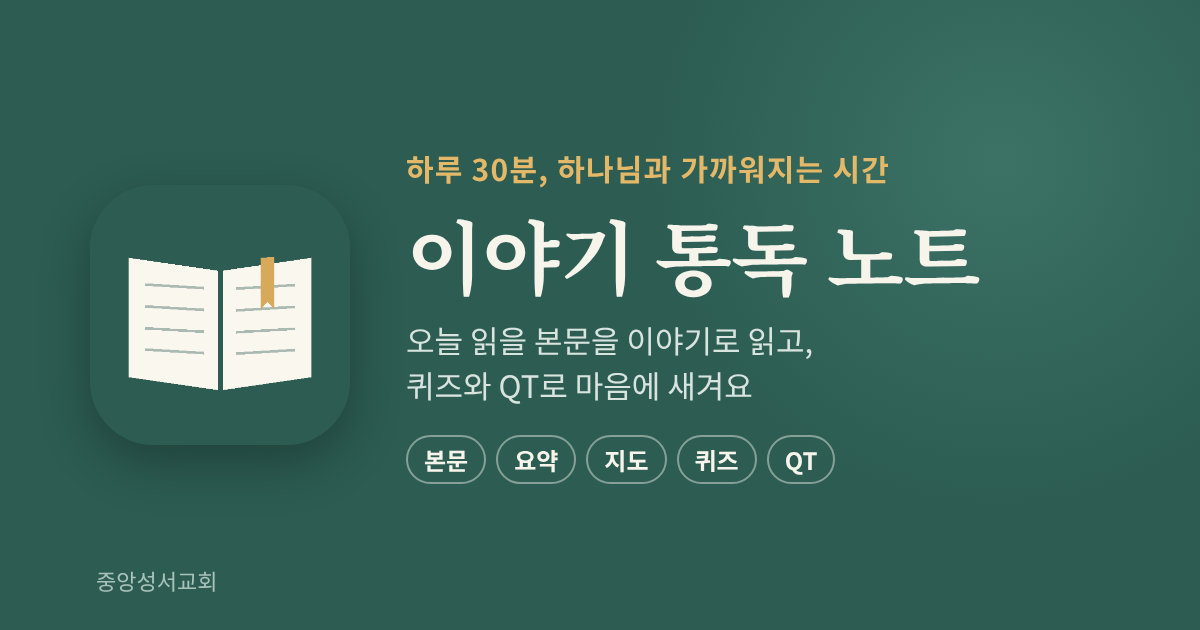
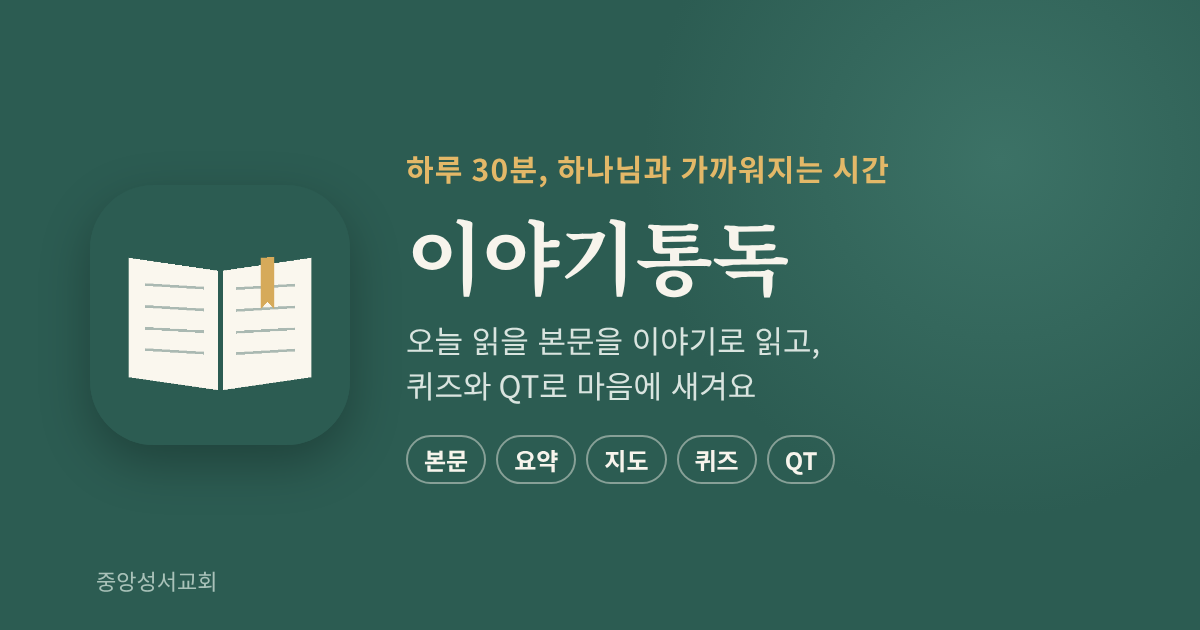
앱 이름을 '이야기통독'으로: 홈 화면 이름·탭 제목·링크 미리보기·켤 때 화면·메뉴 문구
Claude-Session: https://claude.ai/code/session_01JDTz8YqNAERJZBJ94GhQMU

Changed region(s): [[0.5242, 0.3317, 0.8325, 0.4825], [0.4008, 0.5127, 0.6783, 0.6333]]

diff --git a/app/template3.html b/app/template3.html
@@ -1,4 +1,4 @@
-<title>이야기 통독 노트</title>
+<title>이야기통독</title>
 <link rel="preconnect" href="https://fonts.googleapis.com">
 <link rel="preconnect" href="https://fonts.gstatic.com" crossorigin>
 <link rel="stylesheet" href="https://fonts.googleapis.com/css2?family=Gowun+Batang:wght@400;700&family=IBM+Plex+Sans+KR:wght@400;500;600;700&display=swap">
@@ -2230,7 +2230,7 @@ html.v2 body .rdt{display:block;font:600 14px var(--f-ui);color:var(--muted);mar
 
 <div class="wrap">
   <header class="top">
-    <div class="brand"><span id="brandL">이야기 통독 노트(시험판) · <span id="planName"></span></span><span class="topbtns"><span id="hdx"></span><button class="tourbtn" id="tourBtn" hidden>둘러보기</button><button class="menubtn" id="menuBtn" aria-label="메뉴 열기"><svg viewBox="0 0 24 24" width="22" height="22" fill="none" stroke="currentColor" stroke-width="2.2" stroke-linecap="round"><path d="M4 6h16M4 12h16M4 18h16"/></svg></button></span></div>
+    <div class="brand"><span id="brandL">이야기통독(시험판) · <span id="planName"></span></span><span class="topbtns"><span id="hdx"></span><button class="tourbtn" id="tourBtn" hidden>둘러보기</button><button class="menubtn" id="menuBtn" aria-label="메뉴 열기"><svg viewBox="0 0 24 24" width="22" height="22" fill="none" stroke="currentColor" stroke-width="2.2" stroke-linecap="round"><path d="M4 6h16M4 12h16M4 18h16"/></svg></button></span></div>
     <div id="newsBar"></div>
     <div class="date" id="dateLine"></div>
     <div class="where" id="whereLine"></div>
@@ -3847,7 +3847,7 @@ function godMark(t){
 /* 2026-10-29 첫 화면을 v2로 바꿈: v1을 쓰던 기기에서 처음 열면 한 번 알림 */
 function switchNotice(){ try{ if(!window.CBSR_V2||!window.CBSR_HADV1||window.CBSR_TRY||localStorage.getItem("cbsr-switch-seen")) return; if(/[?&](day|review)=/.test(location.search)) return; localStorage.setItem("cbsr-switch-seen",todayStr()); }catch(e){ return; }
   const lin=window.SYNC&&SYNC.available&&SYNC.loggedIn&&SYNC.loggedIn();
-  sheet("새 화면으로 바뀌었습니다",`<p>이야기 통독 노트가 새 화면으로 바뀌었습니다. 읽는 본문과 순서는 그대로입니다.</p><ul class="swl"><li><b>오늘</b>: 그날 이야기를 사진 카드로 따라가는 <b>스토리 QT</b>로 시작합니다.</li><li>맨 위 <b>동그라미</b>를 눌러 날짜를 옮깁니다. 맨 왼쪽 <b>나의 통독</b>에는 오늘 붙잡은 말씀이 모입니다.</li><li>아래 단추는 차례로 <b>오늘 · 본문 · 묵상 노트 · 도전 · 기록</b>입니다.</li></ul><p class="swrec"><b>기록 안내</b><br>${lin?"이름과 4자리 번호로 로그인하셨기 때문에 기록이 그대로 이어집니다.":"이름과 4자리 번호로 로그인해 쓰신 분은 기록이 그대로 이어집니다. 로그인 없이 쓰신 기록은 새 화면으로 옮겨지지 않았을 수 있습니다. 앞으로는 메뉴에서 로그인해 두시면 기기를 바꿔도 기록이 이어집니다."}</p><p class="lead">예전 화면은 메뉴 맨 아래 '이전 화면'에서 볼 수 있습니다.</p><button class="btn" id="swTour" style="width:100%;margin-top:6px">1분 둘러보기</button>`);
+  sheet("새 화면으로 바뀌었습니다",`<p>이야기통독가 새 화면으로 바뀌었습니다. 읽는 본문과 순서는 그대로입니다.</p><ul class="swl"><li><b>오늘</b>: 그날 이야기를 사진 카드로 따라가는 <b>스토리 QT</b>로 시작합니다.</li><li>맨 위 <b>동그라미</b>를 눌러 날짜를 옮깁니다. 맨 왼쪽 <b>나의 통독</b>에는 오늘 붙잡은 말씀이 모입니다.</li><li>아래 단추는 차례로 <b>오늘 · 본문 · 묵상 노트 · 도전 · 기록</b>입니다.</li></ul><p class="swrec"><b>기록 안내</b><br>${lin?"이름과 4자리 번호로 로그인하셨기 때문에 기록이 그대로 이어집니다.":"이름과 4자리 번호로 로그인해 쓰신 분은 기록이 그대로 이어집니다. 로그인 없이 쓰신 기록은 새 화면으로 옮겨지지 않았을 수 있습니다. 앞으로는 메뉴에서 로그인해 두시면 기기를 바꿔도 기록이 이어집니다."}</p><p class="lead">예전 화면은 메뉴 맨 아래 '이전 화면'에서 볼 수 있습니다.</p><button class="btn" id="swTour" style="width:100%;margin-top:6px">1분 둘러보기</button>`);
   const t=document.getElementById("swTour"); if(t) t.onclick=()=>{ document.getElementById("sheetClose").click(); setTimeout(startTour,250); };
 }
 /* 처음 온 사람: 한 번만 둘러보기 권하기(나중에 하면 메뉴 › 도움말 › 둘러보기) */
@@ -7322,7 +7322,7 @@ function renderGuideV2(){ const rj=false, sd=parseD(mem.start);
       <a class="mban yt" href="${CHURCH_YT}" target="_blank" rel="noopener"><span class="mbi">▶</span><span><b>교회 유튜브</b><small>예배와 말씀 영상</small></span><i aria-hidden="true">↗</i></a>
       <a class="mban mwv" href="https://aqedah.github.io/MILALWV/" target="_blank" rel="noopener"><span class="mbi">א</span><span><b>MILALWV</b><small>히브리어 원문 연구</small></span><i aria-hidden="true">↗</i></a></div>
     <p class="mgh">기타</p><div class="mgrp">${window.SYNC&&SYNC.available?row("fb","의견 보내기",""):""}${window.SYNC&&SYNC.available?row("together","함께 읽기",PROF.share?"켜짐":"꺼짐"):""}${row("data","기록 관리","")}</div>
-    <p class="mfoot">이야기 통독 노트 · 시험판 · <a class="linkbtn" href="v1.html">이전 화면</a>${window.SYNC&&SYNC.available?` · <button class="linkbtn" id="adminGo">관리자</button>`:""}</p></div>`;
+    <p class="mfoot">이야기통독 · 시험판 · <a class="linkbtn" href="v1.html">이전 화면</a>${window.SYNC&&SYNC.available?` · <button class="linkbtn" id="adminGo">관리자</button>`:""}</p></div>`;
   const pages=
    pg("plan","통독표",`<div class="plans" role="radiogroup">${(!rj)?"":`<button class="plan" role="radio" aria-checked="${rj}" data-plan="rj"><i class="dot"></i><b>리딩지저스 45주</b><span class="lead">한 주에 엿새 읽고 주일에는 돌아봅니다.</span></button>`}<button class="plan" role="radio" aria-checked="${!rj}" data-plan="y365"><i class="dot"></i><b>${Y27?"2027 성경통독":"365 성경통독"}</b><span class="lead">${Y27?"하루도 쉬지 않고 날마다 읽어 1년에 성경을 한 번 읽습니다.":"날마다 읽어 1년에 성경을 한 번 읽습니다."}</span></button></div><p class="lead">통독표마다 기록이 따로 저장됩니다. 바꿔도 다른 통독표의 기록은 지워지지 않습니다.</p>`)+
    pg("tr","성경 번역",`<div class="plans" role="radiogroup">${Object.entries(TR_INFO).map(([k,v])=>`<button class="plan" role="radio" aria-checked="${TR===k}" data-tr="${k}"><i class="dot"></i><b>${esc(v.name)}</b></button>`).join("")}</div><p class="lead">본문 읽기가 이 번역으로 보입니다. 스토리 QT·묵상 노트·도전은 원고가 개역개정으로 쓰여 늘 개역개정입니다.</p>`)+

diff --git a/app/site_src/demo.html b/app/site_src/demo.html
@@ -1,6 +1,6 @@
 <!doctype html><html lang="ko"><head><meta charset="utf-8"><meta name="viewport" content="width=device-width,initial-scale=1,viewport-fit=cover">
-<title>스토리 QT 체험판</title><meta name="description" content="이야기 통독 노트 스토리 QT 체험판 · 중앙성서교회">
-<meta property="og:title" content="이야기 통독 노트 · 스토리 QT 체험판"><meta property="og:description" content="본문을 이야기 카드로 따라가고, 지도에서 인물과 함께 걷고, QT로 묵상합니다."><meta property="og:image" content="og.png">
+<title>스토리 QT 체험판</title><meta name="description" content="이야기통독 스토리 QT 체험판 · 중앙성서교회">
+<meta property="og:title" content="이야기통독 · 스토리 QT 체험판"><meta property="og:description" content="본문을 이야기 카드로 따라가고, 지도에서 인물과 함께 걷고, QT로 묵상합니다."><meta property="og:image" content="og.png">
 <link rel="icon" href="icons/icon-192.png">
 <link href="https://fonts.googleapis.com/css2?family=Noto+Sans+KR:wght@400;500;700&family=Noto+Serif+KR:wght@600;700;900&display=swap" rel="stylesheet">
 <!--FB-->

diff --git a/app/og/og.html b/app/og/og.html
@@ -13,7 +13,7 @@ h1{margin:0;font-family:"Noto Serif CJK KR";font-weight:700;font-size:80px;white
 .foot{position:absolute;left:96px;bottom:34px;font-size:22px;color:#A9C2B9}
 </style></head><body><div class="glow"></div>
 <div class="wrap"><img class="book" src="icon-512.png">
-<div class="t"><div class="kick">하루 30분, 하나님과 가까워지는 시간</div><h1>이야기 통독 노트</h1>
+<div class="t"><div class="kick">하루 30분, 하나님과 가까워지는 시간</div><h1>이야기통독</h1>
 <div class="sub">오늘 읽을 본문을 이야기로 읽고,<br>퀴즈와 QT로 마음에 새겨요</div>
 <div class="tags"><span>본문</span><span>요약</span><span>지도</span><span>퀴즈</span><span>QT</span></div></div></div>
 <div class="foot">중앙성서교회</div></body></html>

diff --git a/app/site_src/sync.js b/app/site_src/sync.js
@@ -1,4 +1,4 @@
-/* 이야기 통독 노트 — 독립 웹앱용 기록 동기화 (Firebase: 익명 로그인 + Firestore)
+/* 이야기통독 — 독립 웹앱용 기록 동기화 (Firebase: 익명 로그인 + Firestore)
    이름 + 숫자 4자리로 '열쇠'를 만들어, 같은 이름·번호를 넣은 기기끼리 기록을 이어 봅니다. */
 (function(){
   "use strict";

diff --git a/app/build_site.py b/app/build_site.py
@@ -255,11 +255,11 @@ head=f'''<!doctype html>
 {title}
 <meta name="description" content="성경통독 · 오늘 본문, 요약, 지도, 퀴즈, QT">
 <meta property="og:type" content="website">
-<meta property="og:site_name" content="이야기 통독 노트">
-<meta property="og:title" content="이야기 통독 노트">
+<meta property="og:site_name" content="이야기통독">
+<meta property="og:title" content="이야기통독">
 <meta property="og:description" content="성경통독 · 오늘 본문, 요약, 지도, 퀴즈, QT">
 <meta property="og:url" content="https://aqedah.github.io/CBSR/">
-<meta property="og:image" content="https://aqedah.github.io/CBSR/og.png?v=3">
+<meta property="og:image" content="https://aqedah.github.io/CBSR/og.png?v=4">
 <meta property="og:image:width" content="1200">
 <meta property="og:image:height" content="630">
 <meta name="twitter:card" content="summary_large_image">
@@ -267,7 +267,7 @@ head=f'''<!doctype html>
 <script>try{{var t=localStorage.getItem("cbsr-theme");if(t==="light"||t==="dark")document.documentElement.setAttribute("data-theme",t);}}catch(e){{}}</script>
 <meta name="apple-mobile-web-app-capable" content="yes">
 <meta name="mobile-web-app-capable" content="yes">
-<meta name="apple-mobile-web-app-title" content="통독 노트">
+<meta name="apple-mobile-web-app-title" content="이야기통독">
 <link rel="manifest" href="manifest.webmanifest">
 <script>window.addEventListener("beforeinstallprompt",function(e){{e.preventDefault();window.__bip=e;}});</script>
 <link rel="icon" href="icons/icon-192.png">
@@ -279,7 +279,7 @@ head=f'''<!doctype html>
 @media (prefers-reduced-motion: reduce){{#appBoot .bar i{{animation:none;width:100%}}}}</style>
 </head>
 <body>
-<div id="appBoot" role="status"><div><div class="k">이야기 통독 노트</div><div class="t">오늘 통독</div><div class="s">이야기를 따라 읽습니다</div><div class="bar"><i></i></div></div></div>
+<div id="appBoot" role="status"><div><div class="k">이야기통독</div><div class="t">오늘 통독</div><div class="s">이야기를 따라 읽습니다</div><div class="bar"><i></i></div></div></div>
 '''
 html=head+body+'\n</body>\n</html>\n'
 # 2026-10-29 v2가 첫 화면(index.html)이 됨. v1은 v1.html로 남겨 둠(이전 화면)
